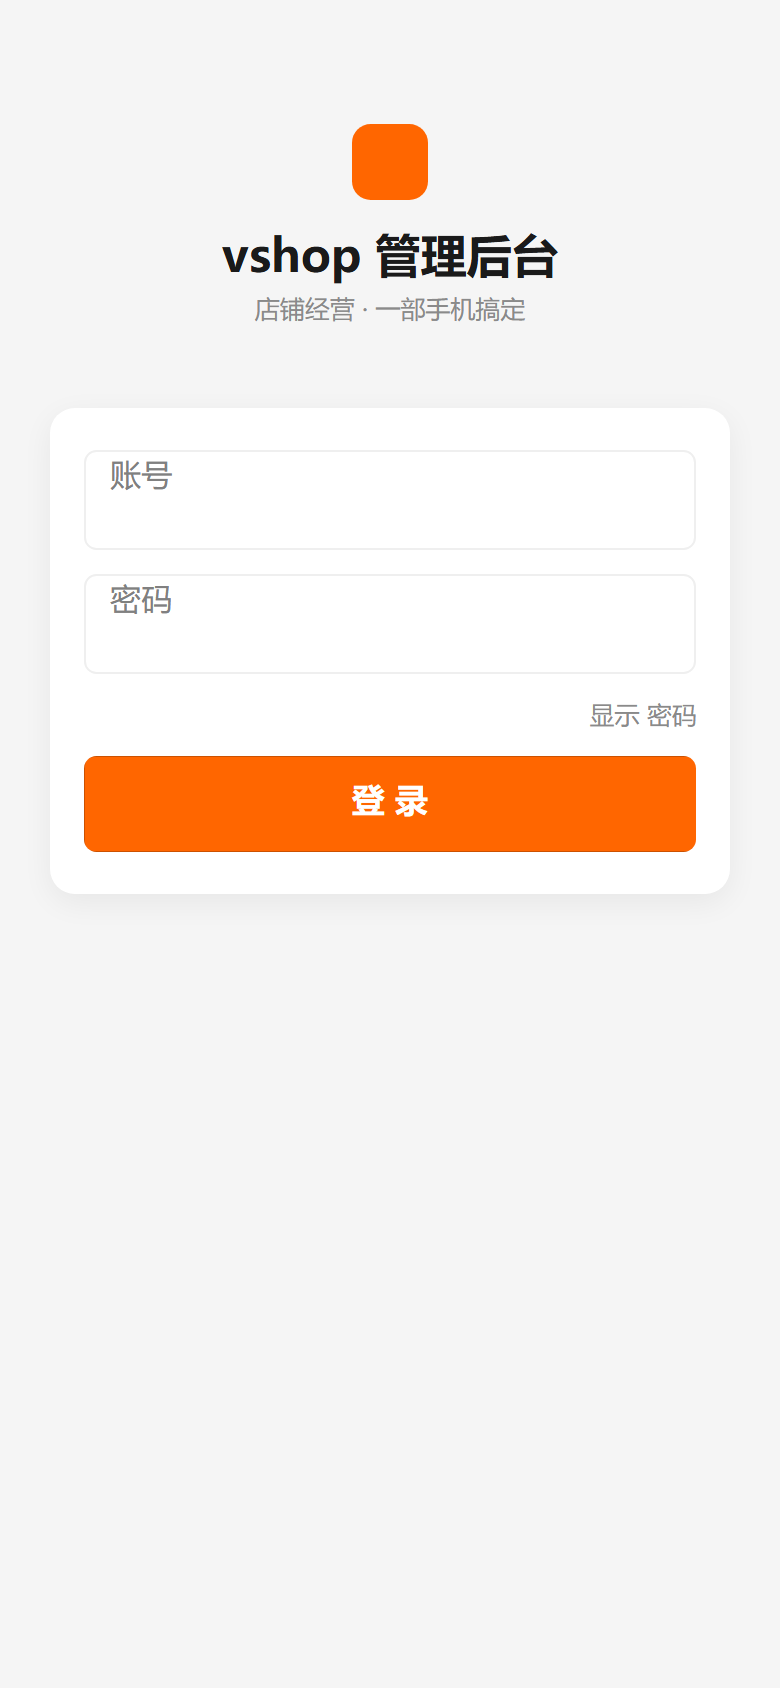
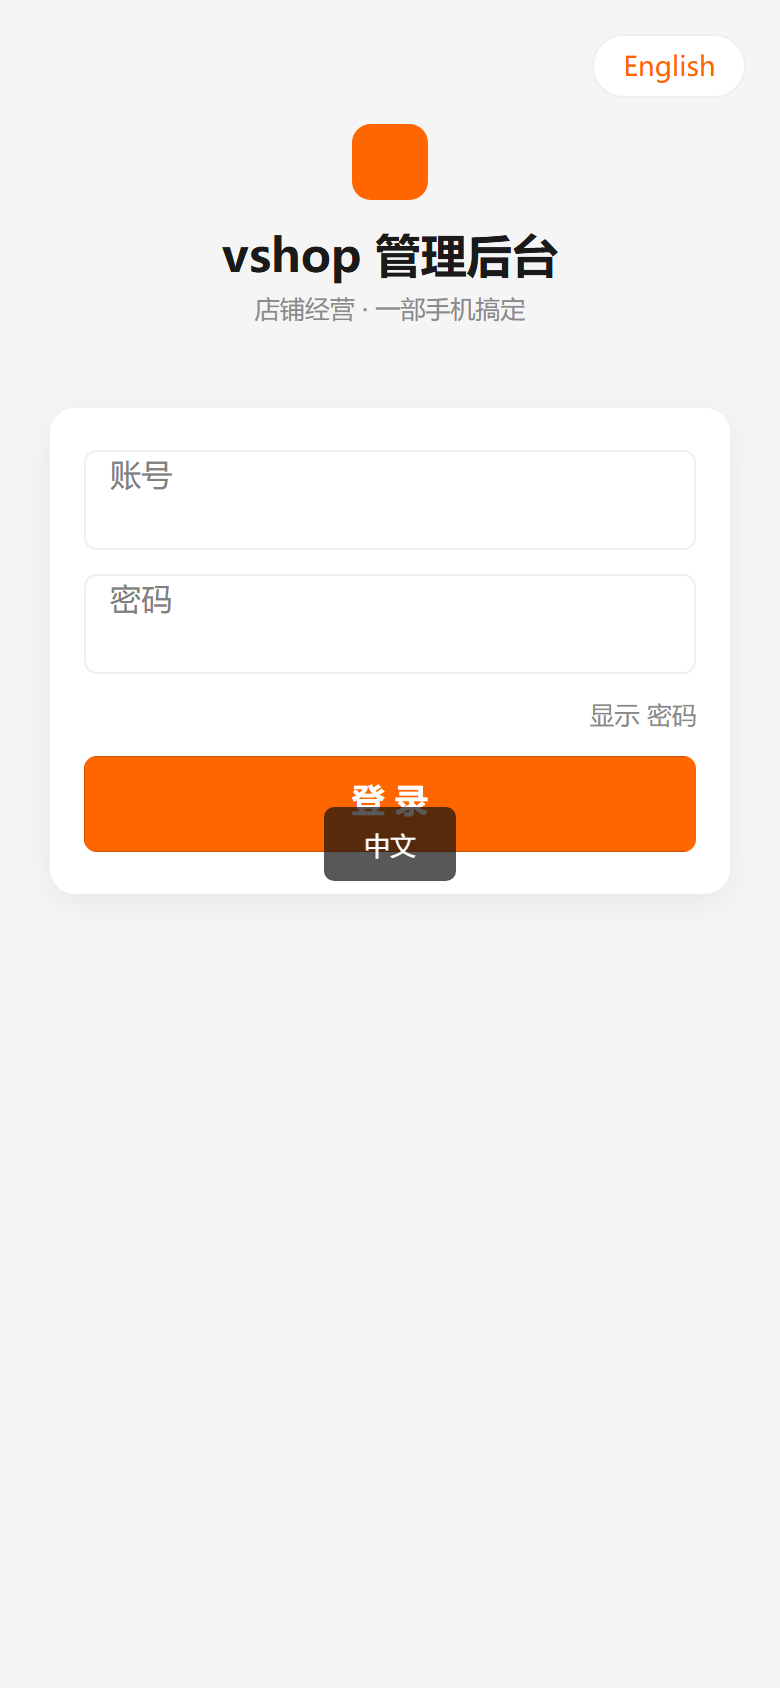
feat(i18n): 登录页+侧边栏新增语言切换按钮(点按即时中英切换)

Changed region(s): [[0.4, 0.4621, 0.5846, 0.5237], [0.8, 0.0308, 0.9231, 0.0616]]

diff --git a/web-admin/src/components/Drawer.vue b/web-admin/src/components/Drawer.vue
@@ -5,7 +5,10 @@
       <view class="head">
         <text class="store">{{ tenant.name || tenant.code || locale.t('menu.noStore') }}</text>
         <text class="store-code" v-if="tenant.name && tenant.code">{{ tenant.code }}</text>
-        <text class="switch" @tap="switchStore">{{ locale.t('menu.switchStore') }} ›</text>
+        <view class="sub-row">
+          <text class="switch" @tap="switchStore">{{ locale.t('menu.switchStore') }} ›</text>
+          <text class="lang" @tap="toggleLang">{{ locale.locale === 'zh-Hans' ? locale.t('login.en') : locale.t('login.zh') }}</text>
+        </view>
       </view>
       <scroll-view scroll-y class="body">
         <view class="group" v-for="g in shownGroups" :key="g.domain">
@@ -38,6 +41,11 @@ defineProps<{ show: boolean }>();
 const shownGroups = computed(() => visibleMenus(auth));
 
 function switchStore() { uni.redirectTo({ url: '/pages/channel-select/index' }); }
+function toggleLang() {
+  const next = locale.locale === 'zh-Hans' ? 'en' : 'zh-Hans';
+  locale.apply(next);
+  uni.showToast({ title: next === 'en' ? locale.t('login.en') : locale.t('login.zh'), icon: 'none' });
+}
 // 公开手册：独立新窗口打开，无需登录鉴权
 function openManual() {
   const base = (location.pathname.match(/^.*\/guanli\/?/) || ['/guanli/'])[0].replace(/\/$/, '');
@@ -58,7 +66,10 @@ function go(it: any) {
 .head { padding: 32rpx 32rpx 22rpx; border-bottom: 1px solid #f0f0f0;
   .store { font-size: 30rpx; font-weight: 700; color: $wa-ink; }
   .store-code { display: inline-block; font-size: 18rpx; color: $wa-muted; margin-left: 12rpx; padding: 2rpx 12rpx; border-radius: 999rpx; background: #f5f5f5; vertical-align: middle; }
-  .switch { display: block; margin-top: 8rpx; font-size: 22rpx; color: $pm-info; }
+  .sub-row { display: flex; align-items: center; justify-content: space-between; margin-top: 8rpx;
+    .switch { font-size: 22rpx; color: $pm-info; }
+    .lang { font-size: 22rpx; color: $wa-accent; padding: 4rpx 20rpx; border: 1rpx solid $wa-rule; border-radius: 999rpx; }
+  }
 }
 .body { flex: 1; min-height: 0; padding: 20rpx 28rpx 40rpx; }
 .group { margin-bottom: 28rpx; }

diff --git a/web-admin/src/pages/login/index.vue b/web-admin/src/pages/login/index.vue
@@ -1,5 +1,6 @@
 <template>
   <view class="login">
+    <view class="langbar" @tap="toggleLang">{{ locale.locale === 'zh-Hans' ? $t('login.en') : $t('login.zh') }}</view>
     <view class="brand">
       <view class="dot" />
       <text class="t1">{{ $t('login.title') }}</text>
@@ -30,6 +31,12 @@ const showPwd = ref(false);
 const loading = ref(false);
 const err = ref('');
 
+function toggleLang() {
+  const next = locale.locale === 'zh-Hans' ? 'en' : 'zh-Hans';
+  locale.apply(next);
+  uni.showToast({ title: next === 'en' ? locale.t('login.en') : locale.t('login.zh'), icon: 'none' });
+}
+
 async function doLogin() {
   err.value = '';
   loading.value = true;
@@ -55,7 +62,8 @@ async function doLogin() {
 </script>
 
 <style lang="scss" scoped>
-.login { min-height: 100vh; background: $wa-bg; padding: 120rpx 48rpx; box-sizing: border-box; }
+.login { min-height: 100vh; background: $wa-bg; padding: 120rpx 48rpx; box-sizing: border-box; position: relative; }
+.langbar { position: absolute; top: 32rpx; right: 32rpx; padding: 12rpx 28rpx; font-size: 26rpx; color: $wa-accent; background: $wa-card; border: 1rpx solid $wa-rule; border-radius: 999rpx; }
 .brand { display: flex; flex-direction: column; align-items: center; margin-bottom: 80rpx;
   .dot { width: 72rpx; height: 72rpx; border-radius: 18rpx; background: $wa-accent; margin-bottom: 24rpx; }
   .t1 { font-size: 44rpx; font-weight: 700; color: $wa-ink; }
